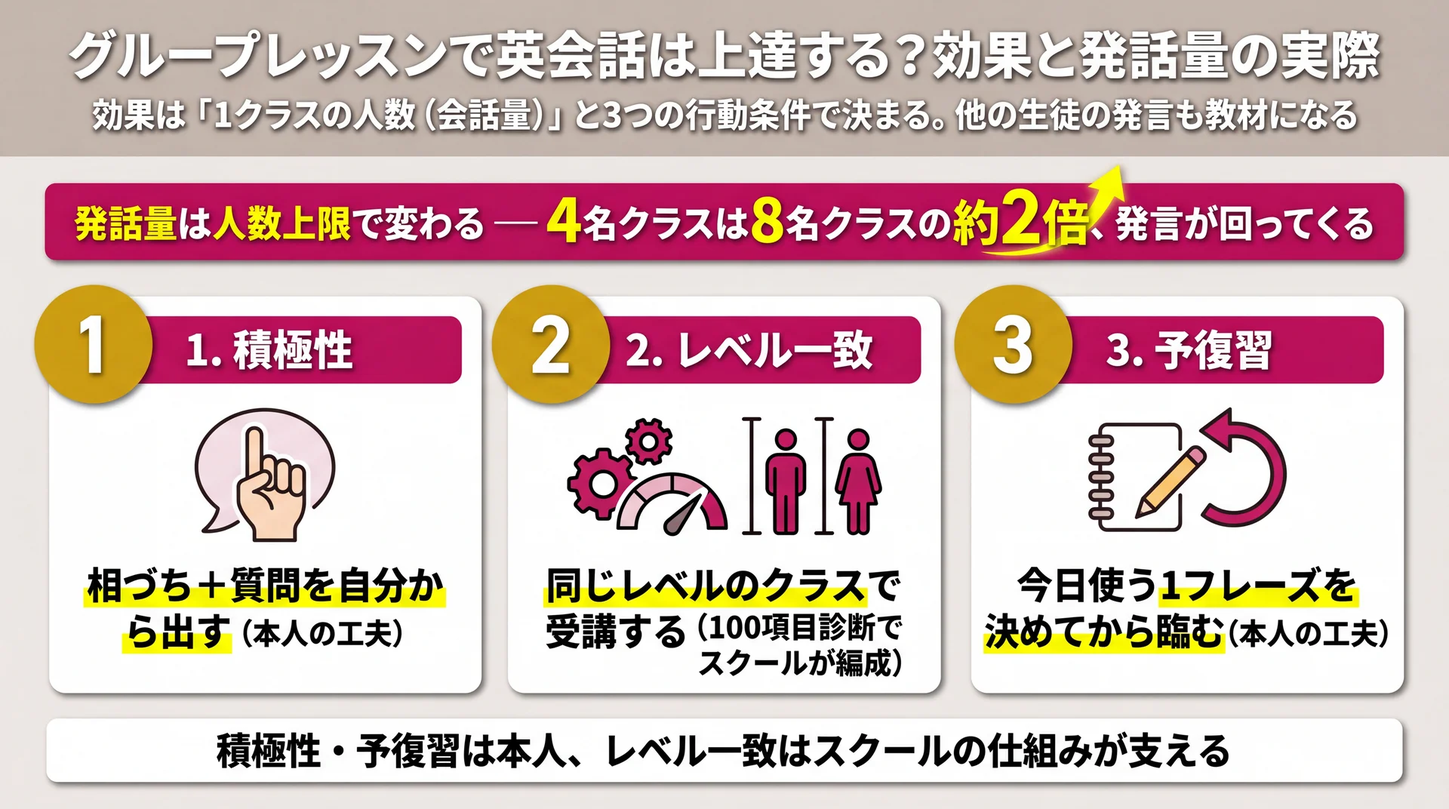
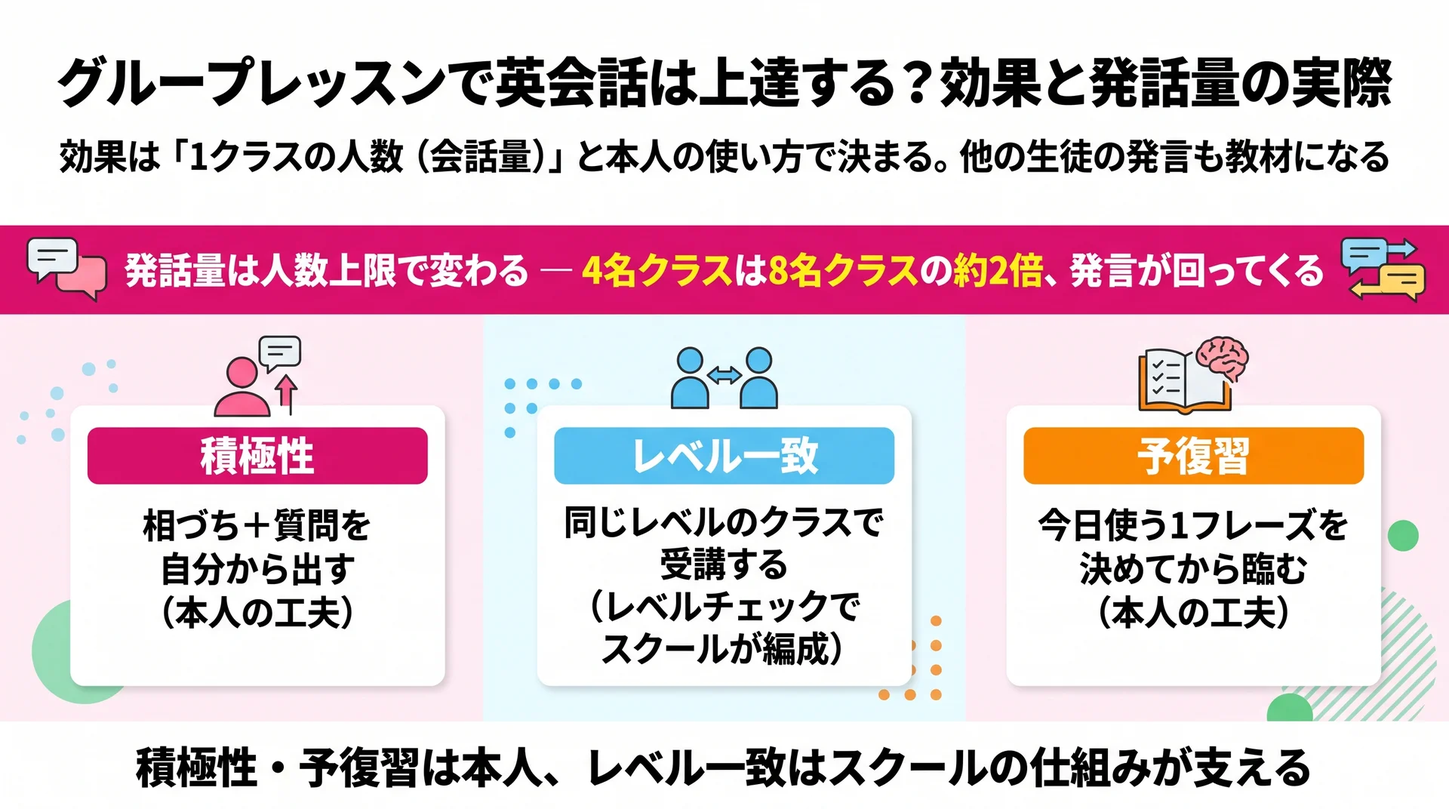
publish: eikaiwa-group-lesson

diff --git a/2026/07/eikaiwa-group-lesson.html b/2026/07/eikaiwa-group-lesson.html
@@ -19,6 +19,16 @@
 .wp-block-button{margin:0;}
 .wp-block-button__link{display:inline-block;padding:14px 32px;border-radius:999px;font-weight:700;line-height:1.2;text-decoration:none;}
 .wp-block-group .has-text-align-center{margin:10px 0;}
+/* Gutenberg image blocks: a WordPress theme centers .aligncenter figures; standalone
+   HTML lacks that rule so they render left-aligned. Inline styles on a figure
+   (e.g. style="text-align:left") still win over these rules.
+   max-width:100% keeps banner-CTA images (gutenberg-cta-template.md pattern: no width
+   attr / no inline style) inside the 820px article container.
+   Caption values (12px / #4D4D4D) follow the figcaption inline style already used in
+   published articles (NOVA etc., 2026-08). */
+.wp-block-image.aligncenter{text-align:center;margin-left:auto;margin-right:auto;}
+.wp-block-image.aligncenter img{display:inline-block;max-width:100%;height:auto;}
+.wp-block-image .wp-element-caption{font-size:12px;color:#4D4D4D;margin-top:6px;}
 /* WillGroup / carebase theme CTA (.btn-gra) for standalone HTML rendering.
    Some articles use the theme's <p class="btn-gra ..."><a>…</a></p> CTA instead of a
    Gutenberg button block. Without the theme CSS these classes are inert and the CTA
@@ -45,36 +55,28 @@
 .column-contact-block p{color:#fff;text-align:center;margin:24px 0;}
 .column-contact-block p:not(.btn-gra){font-size:20px;font-weight:700;line-height:1.5;}
 </style><h1 style="font-size:32px; font-weight:700; margin:24px 0 16px; padding-bottom:10px; border-bottom:1px solid #eaeef2; line-height:1.3;">グループレッスンで英会話は上達する？効果と料金・向き不向き</h1>
-<p style="margin:14px 0; line-height:1.7;"><img src="https://shun-toda.github.io/html-publish/2026/07/eikaiwa-group-lesson/cta_img_contents20_01_b.png" alt="NOVAうさぎ" loading="lazy" style="max-width:100%; height:auto; display:block; margin:16px auto; border-radius:6px;" /></p>
-<p style="margin:14px 0; line-height:1.7;">「グループレッスンで英会話は本当に上達するの？」――費用を抑えたい一方で、自分だけ発言できずに取り残されないか気になるところです。結論から言えば、上達するかどうかは<strong>1クラスの人数と使い方</strong>で大きく変わります。少人数で会話量を確保できれば、月1万円台から続けながら十分に力を伸ばせます。まずは<a href="/column/eikaiwa-school-osusume/" style="color:#0969da; text-decoration:none; border-bottom:1px solid #eaeef2;">英会話教室の選び方から料金相場までを整理したハブガイド</a>で全体像をつかむのもおすすめです。</p>
-<h2 style="font-size:24px; font-weight:600; margin:32px 0 16px; padding-bottom:8px; border-bottom:1px solid #eaeef2; line-height:1.3;">グループレッスンとは？1クラスの人数とレッスンの進み方</h2>
-<p style="margin:14px 0; line-height:1.7;"><img src="https://shun-toda.github.io/html-publish/2026/07/eikaiwa-group-lesson/h2_01_%E3%82%B0%E3%83%AB%E3%83%BC%E3%83%97%E3%83%AC%E3%83%83%E3%82%B9%E3%83%B3%E3%81%A8%E3%81%AF_%E4%BA%BA%E6%95%B0.webp" alt="1クラス2〜4名の少人数と6〜8名の多人数で発言機会が変わる点と、進め方・対面/オンラインの違いを整理した図" loading="lazy" style="max-width:100%; height:auto; display:block; margin:16px auto; border-radius:6px;" /><br><em>人数・進め方・対面/オンラインの3観点でグループレッスンの基本を整理（当社の少人数上限は最大4名）</em></p>
-<p style="margin:14px 0; line-height:1.7;">グループレッスンは、1人の講師が複数の生徒を同時に教える英会話の受講形式です。人数は少人数制で2〜4名程度から、多いところでは6〜8名程度まで幅があり、同じくらいの英語レベルの生徒でクラスを組むのが一般的です。費用を抑えながら仲間と学べる形式として、初心者から根強い人気があります。まずは形式の中身を押さえておきましょう。</p>
-<h3 style="font-size:20px; font-weight:600; margin:24px 0 12px; line-height:1.3;">1クラスの人数と少人数・大人数の違い</h3>
-<p style="margin:14px 0; line-height:1.7;">グループレッスンでいちばん効果を左右するのが、1クラスの人数です。人数が少ないほど1人あたりの発言機会は増え、多いほど聞いている時間が長くなります。当社の駅前留学NOVAでは、講師1人に対して<span style="color:red"><strong>最大4名まで</strong></span>の少人数に上限を設けています（<a href="https://www.nova.co.jp/novajiman/" style="color:#0969da; text-decoration:none; border-bottom:1px solid #eaeef2;">NOVAの自慢</a>）。人数の上限が明記されているかどうかは、体験や見学の際に確認しておきたいポイントです。</p>
-<p style="margin:14px 0; line-height:1.7;">同じ「グループレッスン」でも、2〜4名の少人数と6〜8名の中人数では、話せる量がまったく違ってきます。安さだけで選ぶと、席数の多いクラスで自分の番がなかなか回ってこないこともあります。料金と一緒に人数の上限をセットで見ておくと、こうしたミスマッチを防げます。人数は多くの場合、公式サイトの料金ページや各校の案内に記載されているので、申し込み前にチェックしておきましょう。</p>
-<h3 style="font-size:20px; font-weight:600; margin:24px 0 12px; line-height:1.3;">レッスンの進み方（ロールプレイやペアワーク）</h3>
-<p style="margin:14px 0; line-height:1.7;">グループレッスンは、講師が一方的に話す授業ではありません。ロールプレイ（役割を決めた会話練習）、ペアワーク、簡単なディスカッションなど、生徒同士でやり取りする時間が中心になります。講師は会話を回しながら、その場で発音や言い回しを直していきます。</p>
-<p style="margin:14px 0; line-height:1.7;">当社の駅前留学NOVAの講師は全員外国人なので、教材にない自然な表現や相づちも、実際のやり取りの中で拾えます。<strong>他の生徒の発言を聞きながら自分も話す</strong>という往復が、グループならではの学びの土台になります。同じテーマでも人によって言い方が違うため、1回のレッスンで複数の表現に触れられるのがグループの持ち味です。</p>
-<h3 style="font-size:20px; font-weight:600; margin:24px 0 12px; line-height:1.3;">対面とオンライン、2つのグループレッスン</h3>
-<p style="margin:14px 0; line-height:1.7;">グループレッスンには、教室に通う対面型と、自宅から受けるオンライン型があります。対面型は同じ空間で表情やジェスチャーも交えて練習でき、通うこと自体が学習リズムをつくります。オンライン型は移動時間ゼロで受けられる手軽さが魅力です。</p>
-<p style="margin:14px 0; line-height:1.7;">当社では、駅前の教室で受ける対面のグループに加えて、オンラインの新・お茶の間留学も用意しています。生活スタイルに合わせて対面とオンラインを切り替えられると、忙しい時期でも学習が途切れにくくなります。続けられるかどうかが不安な方ほど、通い方の選択肢が多い環境を選んでおくと安心です。</p>
-<h2 style="font-size:24px; font-weight:600; margin:32px 0 16px; padding-bottom:8px; border-bottom:1px solid #eaeef2; line-height:1.3;">グループレッスンで英会話は上達する？効果と発話量の実際</h2>
-<p style="margin:14px 0; line-height:1.7;"><img src="https://shun-toda.github.io/html-publish/2026/07/eikaiwa-group-lesson/h2_02_%E5%8A%B9%E6%9E%9C_%E7%99%BA%E8%A9%B1%E9%87%8F.webp" alt="伸びるかを分ける積極性・レベル一致・予復習の3条件と、本人とスクールの役割分担を示した図" loading="lazy" style="max-width:100%; height:auto; display:block; margin:16px auto; border-radius:6px;" /><br><em>積極性・予復習は本人、レベル一致は当社の100項目診断が支える役割分担（当社の受講サポートの知見に基づく）</em></p>
+<p style="margin:14px 0; line-height:1.7;"><img src="https://shun-toda.github.io/html-publish/2026/07/eikaiwa-group-lesson/01_%E3%82%B0%E3%83%AB%E3%83%BC%E3%83%97%E3%83%AC%E3%83%83%E3%82%B9%E3%83%B3.webp" alt="外国人講師と最大4名の少人数グループで英会話レッスンを受ける生徒たち" loading="lazy" style="max-width:100%; height:auto; display:block; margin:16px auto; border-radius:6px;" /></p>
+<p style="margin:14px 0; line-height:1.7;">「グループレッスンで英会話は本当に上達するの？」――費用を抑えたい一方で、自分だけ発言できずに取り残されないか気になるところです。結論から言えば、上達するかどうかは<strong>1クラスの人数と使い方</strong>で大きく変わります。少人数で会話量を確保できれば、月1万円台から続けながら十分に力を伸ばせます。</p>
+<h2 style="background:#D31477;color:#FFFFFF;padding:12px 16px;border-radius:8px">グループレッスンとは？1クラスの人数とレッスンの進み方</h2><p style="margin:14px 0; line-height:1.7;"><img src="https://shun-toda.github.io/html-publish/2026/07/eikaiwa-group-lesson/h2_01_%E3%82%B0%E3%83%AB%E3%83%BC%E3%83%97%E3%83%AC%E3%83%83%E3%82%B9%E3%83%B3%E3%81%A8%E3%81%AF_%E4%BA%BA%E6%95%B0.webp" alt="1クラス2〜4名の少人数と6〜8名の多人数で発言機会が変わる点と、進め方・対面/オンラインの違いを整理した図" loading="lazy" style="max-width:100%; height:auto; display:block; margin:16px auto; border-radius:6px;" /><br><em>人数・進め方・対面/オンラインの3つの観点でグループレッスンの基本を整理（NOVAの少人数上限は最大4名）</em></p>
+<p style="margin:14px 0; line-height:1.7;">グループレッスンは、1人の講師が複数の生徒を同時に教える英会話の受講形式です。人数は少人数制で2〜4名程度から、多いところでは6〜8名程度まで幅があり、同じくらいの英語レベルの生徒でクラスを組むのが一般的です。費用を抑えながら仲間と学べる形式として、初心者から根強い人気があります。</p>
+<h3 style="border-left:6px solid #E9AD16;background:#FBF2F6;padding:8px 12px;color:#242424">1クラスの人数と少人数・大人数の違い</h3><p style="margin:14px 0; line-height:1.7;">グループレッスンでいちばん効果を左右するのが、1クラスの人数です。人数が少ないほど1人あたりの発言機会は増え、多いほど聞いている時間が長くなります。NOVAは、講師1人に対して<span style="color:red"><strong>最大4名まで</strong></span>の少人数制です（<a href="https://www.nova.co.jp/novajiman/" style="color:#0969da; text-decoration:none; border-bottom:1px solid #eaeef2;">NOVAの自慢</a>）。</p>
+<p style="margin:14px 0; line-height:1.7;">同じ「グループレッスン」でも、2〜4名の少人数と6〜8名の中人数では、話せる量がまったく違ってきます。安さだけで選ぶと、席数の多いクラスで自分の番がなかなか回ってこないこともあります。料金と一緒に人数の上限をセットで見ておくと、こうしたミスマッチを防げます。</p>
+<h3 style="border-left:6px solid #E9AD16;background:#FBF2F6;padding:8px 12px;color:#242424">レッスンの進み方（ロールプレイやペアワーク）</h3><p style="margin:14px 0; line-height:1.7;">グループレッスンは、講師が一方的に話す授業ではありません。レッスンの中心は講師との会話で、ロールプレイ（役割を決めた会話練習）、ペアワーク、簡単なディスカッションなど、生徒同士でやり取りする時間もあります。講師は会話を回しながら、その場で発音や言い回しを直していきます。</p>
+<p style="margin:14px 0; line-height:1.7;">NOVAの講師は全員外国人なので、教材にない自然な表現や相づちも、実際のやり取りの中で拾えます。<strong>他の生徒の発言を聞きながら自分も話す</strong>という往復が、グループならではの学びの土台になります。同じテーマでも人によって言い方が違うため、1回のレッスンで複数の表現に触れられるのがグループの持ち味です。</p>
+<h3 style="border-left:6px solid #E9AD16;background:#FBF2F6;padding:8px 12px;color:#242424">対面とオンライン、2つのグループレッスン</h3><p style="margin:14px 0; line-height:1.7;">グループレッスンには、教室に通う対面型と、自宅から受けるオンライン型があります。対面型は同じ空間で表情やジェスチャーも交えて練習でき、通うこと自体が学習リズムをつくります。オンライン型は移動時間ゼロで受けられる手軽さが魅力です。</p>
+<p style="margin:14px 0; line-height:1.7;">NOVAは、駅前の教室で受ける対面のグループに加えて、オンラインの新・お茶の間留学も用意しています。生活スタイルに合わせて対面とオンラインを切り替えられると、忙しい時期でも学習が途切れにくくなります。</p>
+<h2 style="background:#D31477;color:#FFFFFF;padding:12px 16px;border-radius:8px">グループレッスンで英会話は上達する？効果と発話量の実際</h2><p style="margin:14px 0; line-height:1.7;"><img src="https://shun-toda.github.io/html-publish/2026/07/eikaiwa-group-lesson/h2_02_%E5%8A%B9%E6%9E%9C_%E7%99%BA%E8%A9%B1%E9%87%8F.webp" alt="伸びるかを左右する積極性・レベル一致・予復習のポイントと、本人とスクールの役割分担を示した図" loading="lazy" style="max-width:100%; height:auto; display:block; margin:16px auto; border-radius:6px;" /><br><em>積極性・予復習は本人、レベル一致はNOVAのレベルチェック（100項目の診断）が支える役割分担</em></p>
 <p style="margin:14px 0; line-height:1.7;">グループレッスンでも英会話は十分に上達します。効果を決めるのは人数の上限と本人の使い方の2つで、少人数で会話量を確保し、積極的に発言すれば、初心者でも着実に伸ばせます。逆に大人数で聞き役に徹してしまうと、伸びは緩やかになります。</p>
 <p style="margin:14px 0; line-height:1.7;">グループレッスンで最初に気になるのは発話量の問題です。ここは1クラスの人数の設計しだいで大きく変わる部分なので、まず効果が生まれる仕組みから確認します。</p>
-<h3 style="font-size:20px; font-weight:600; margin:24px 0 12px; line-height:1.3;">効果が出る仕組み――他の生徒の発言も教材になる</h3>
-<p style="margin:14px 0; line-height:1.7;">グループレッスンの効果の核心は、<span style="background:linear-gradient(transparent 60%,#FFFF00 60%)"><strong>自分が話す時間だけでなく、他の生徒の発言と講師の修正がまるごと教材になる</strong></span>ことです。同じ質問に別の人がどう答えるか、どこで間違えて講師にどう直されるかを聞くこと自体が、実践的なインプットになります。</p>
-<p style="margin:14px 0; line-height:1.7;">自分ひとりでは思いつかない言い回しに触れられるのも利点です。他の生徒が使った表現を「次は自分も使ってみよう」と真似することで、語彙とフレーズの引き出しが自然に増えていきます。マンツーマンでは自分の会話だけが素材ですが、グループでは人数分の言い回しに触れられます。当社の駅前留学NOVAの受講生からは「毎週先生が変わるため、色々な発音や表現の違いを得られます」という声もいただいています（40代女性・7年継続の受講者）。多様な話し方に触れられる環境は、耳を慣らすうえで効いてきます。そのため、発言していない時間も聞き流さずに参加する姿勢が、上達の分かれ目になります。</p>
-<h3 style="font-size:20px; font-weight:600; margin:24px 0 12px; line-height:1.3;">「発話量が少ない」は人数上限で変わる</h3>
-<p style="margin:14px 0; line-height:1.7;">グループレッスンの弱点としてよく挙がるのが発話量です。ただし、これは「グループだから少ない」のではなく、<span style="color:red"><strong>1クラスの人数が多いほど1人あたりの会話量が減る</strong></span>という単純な構造の問題です。8名のクラスと4名のクラスでは、同じ時間でも回ってくる回数が倍近く違います。</p>
-<p style="margin:14px 0; line-height:1.7;">たとえば最大4名のクラスなら、講師が一人ひとりに質問を振っても短時間で全員に回り、発言と修正のサイクルを何度も繰り返せます。当社はこの発話量こそグループ選びの要だと考え、駅前留学NOVAでは最大4名の少人数に上限を固定しています。さらに同じレベルの生徒同士でクラスを編成するので、話すテンポや語彙が近く、置いていかれる・退屈するといった偏りが起きにくくなります。料金の安さだけでなく「1クラス何名までか」を先に確認しておくと、発話量の不安は実質的に解消できます。</p>
-<h3 style="font-size:20px; font-weight:600; margin:24px 0 12px; line-height:1.3;">伸びる人・伸び悩む人を分ける3つの行動条件</h3>
-<p style="margin:14px 0; line-height:1.7;">同じグループレッスンでも、伸びる人と伸び悩む人ははっきり分かれます。当社が受講生の学び方を見てきた経験から、その差は次の3つの行動条件に集約されます。</p>
+<h3 style="border-left:6px solid #E9AD16;background:#FBF2F6;padding:8px 12px;color:#242424">効果が出る仕組み――他の生徒の発言も教材になる</h3><p style="margin:14px 0; line-height:1.7;">グループレッスンの効果の核心は、<span style="background:linear-gradient(transparent 60%,#FFFF00 60%)"><strong>自分が話す時間だけでなく、他の生徒の発言と講師の修正がまるごと教材になる</strong></span>ことです。同じ質問に別の人がどう答えるか、どこで間違えて講師にどう直されるかを聞くこと自体が、実践的なインプットになります。</p>
+<p style="margin:14px 0; line-height:1.7;">自分ひとりでは思いつかない言い回しに触れられるのも利点です。他の生徒が使った表現を「次は自分も使ってみよう」と真似することで、語彙とフレーズの引き出しが自然に増えていきます。マンツーマンでは自分の会話だけが素材ですが、グループでは人数分の言い回しに触れられます。NOVAの受講生からは「毎週先生が変わるため、色々な発音や表現の違いを得られます」という声もいただいています（40代女性・7年継続の受講者）。多様な話し方に触れられる環境は、耳を慣らすうえで効いてきます。そのため、発言していない時間も聞き流さずに参加する姿勢が、上達の分かれ目になります。</p>
+<h3 style="border-left:6px solid #E9AD16;background:#FBF2F6;padding:8px 12px;color:#242424">「発話量が少ない」は人数上限で変わる</h3><p style="margin:14px 0; line-height:1.7;">グループレッスンの弱点としてよく挙がるのが発話量です。ただし、これは「グループだから少ない」のではなく、<span style="color:red"><strong>1クラスの人数が多いほど1人あたりの会話量が減る</strong></span>という単純な構造の問題です。8名のクラスと4名のクラスでは、同じ時間でも回ってくる回数が倍近く違います。</p>
+<p style="margin:14px 0; line-height:1.7;">たとえば最大4名のクラスなら、講師が一人ひとりに質問を振っても短時間で全員に回り、発言と修正のサイクルを何度も繰り返せます。NOVAは、講師1人あたり最大4名の少人数に上限を設けています。さらに同じレベルの生徒同士でクラスを編成するので、話すテンポや語彙が近く、置いていかれる・退屈するといった偏りが起きにくくなります。料金の安さだけでなく「1クラス何名までか」を先に確認しておくと、発話量の不安は実質的に解消できます。</p>
+<h3 style="border-left:6px solid #E9AD16;background:#FBF2F6;padding:8px 12px;color:#242424">グループレッスンで伸びる人・伸び悩む人の特徴</h3><p style="margin:14px 0; line-height:1.7;">同じグループレッスンでも、伸びる人と伸び悩む人ははっきり分かれます。その差は、次のような行動の特徴に表れます。</p>
 <div style="overflow-x:auto; margin:18px 0;"><table style="border-collapse:collapse; width:100%; font-size:14px;">
 <thead style="background:#f6f8fa;">
 <tr>
-<th style="border:1px solid #d0d7de; padding:8px 12px; text-align:left; font-weight:600;">条件</th>
+<th style="border:1px solid #d0d7de; padding:8px 12px; text-align:left; font-weight:600;">項目</th>
 <th style="border:1px solid #d0d7de; padding:8px 12px; text-align:left; font-weight:600;">伸びる人</th>
 <th style="border:1px solid #d0d7de; padding:8px 12px; text-align:left; font-weight:600;">伸び悩む人</th>
 </tr>
@@ -95,23 +97,18 @@
 <td style="border:1px solid #d0d7de; padding:8px 12px;">準備も復習もしない</td>
 </tr>
 </tbody></table></div>
-<p style="margin:14px 0; line-height:1.7;"><em>グループレッスンで伸びる人・伸び悩む人の3条件（当社の受講サポートの知見に基づく）</em></p>
-<p style="margin:14px 0; line-height:1.7;">積極性といっても、流暢に話す必要はありません。「Me too.」や「Why?」といった短い相づちと質問を挟むだけでも、発言回数は大きく増えます。この3条件のうち、レベル一致は自分だけでは整えにくい部分です。当社の駅前留学NOVAでは<span style="background:linear-gradient(transparent 60%,#FFFF00 60%)"><strong>100項目診断で現在地を可視化し、レベル別にクラスを編成</strong></span>しています。積極性と予復習は本人の工夫、レベル一致はスクールの仕組みで支える――この役割分担ができていると、グループでも効果が安定します。</p>
-<h3 style="font-size:20px; font-weight:600; margin:24px 0 12px; line-height:1.3;">効果を実感するまでの目安と多言語への広げ方</h3>
-<p style="margin:14px 0; line-height:1.7;">効果がいつ実感できるかは、受講の頻度と積み重ねで変わります。週1回のペースでも、決めたフレーズを毎回使い、復習を重ねれば、数か月単位で「言いたいことが口から出る」場面が増えていきます。より早く手応えがほしいときは、週の受講回数を増やしたり、レッスンの合間に短時間の自宅学習を挟んだりすると、定着のスピードが上がります。焦らずに続けられる料金と通いやすさが、結果的に上達の近道になります。</p>
-<p style="margin:14px 0; line-height:1.7;">グループレッスンで英語に慣れてくると、同じ形式で第二・第三言語に広げる楽しみも生まれます。当社の渋谷校では「中国語のレッスンを受講しています。講師や同クラスの生徒さん方と常に中国語で会話をする環境がとても勉強に役立っています」という声もいただいています（30代男性・中国語学習者）。当社は英語以外にも複数言語のグループを同じ校舎で用意しているため、英語で身につけた学び方をそのまま横展開できます。長く学びたい方ほど、多言語に広げられる環境を選んでおくと学習の幅が広がります。</p>
-<p style="margin:14px 0; line-height:1.7;"><strong>要点:</strong> グループレッスンの効果は「人数の上限（会話量）」と「積極性・レベル一致・予復習の3条件」で決まります。少人数のクラスを選び、聞いている時間も参加する意識を持てば、初心者でも着実に伸ばせます。</p>
-<h2 style="font-size:24px; font-weight:600; margin:32px 0 16px; padding-bottom:8px; border-bottom:1px solid #eaeef2; line-height:1.3;">グループレッスンの料金相場はいくら？</h2>
-<p style="margin:14px 0; line-height:1.7;"><img src="https://shun-toda.github.io/html-publish/2026/07/eikaiwa-group-lesson/h2_03_%E6%96%99%E9%87%91%E7%9B%B8%E5%A0%B4.webp" alt="グループ月謝税込11,000円〜がマンツーマン24,200円〜の半額以下であることを示す料金比較チャート" loading="lazy" style="max-width:100%; height:auto; display:block; margin:16px auto; border-radius:6px;" /><br><em>月謝で比べるとグループはマンツーマンの半額以下（当社の公式料金・税込／2026年7月時点に基づく）</em></p>
-<p style="margin:14px 0; line-height:1.7;">グループレッスンはマンツーマンより割安で、続けやすいのが料金面の特徴です。対面スクールでは各社の公式料金で確認できる範囲で月1万円台〜2万円台が中心となり、当社の駅前留学NOVAはグループの月謝10,000円〜（税込11,000円〜）から始められます（<a href="https://www.nova.co.jp/price/" style="color:#0969da; text-decoration:none; border-bottom:1px solid #eaeef2;">NOVA料金</a>）。ただし月謝以外の費用も合わせて見ることが大切です。</p>
-<h3 style="font-size:20px; font-weight:600; margin:24px 0 12px; line-height:1.3;">1レッスン・月謝の相場観</h3>
-<p style="margin:14px 0; line-height:1.7;">グループレッスンの費用は、月謝制と回数制で見え方が変わります。1レッスンあたりで見ると、対面スクールでは3,000〜5,000円台が目安になりますが、月謝制なら月あたりの金額で管理でき、通うほど1回あたりの単価は下がっていきます。回数制は都合に合わせて通える一方、まとめ買いの前払いが必要なこともあるため、続けられるか不安な段階では月謝制のほうが始めやすい面があります。</p>
-<p style="margin:14px 0; line-height:1.7;">当社の駅前留学NOVAは<span style="color:red"><strong>月10,000円（税込11,000円）からの月謝制</strong></span>をメインにしています。高額な一括前払いが不要なので、独学や格安オンラインで続かなかった方でも、金銭的なリスクを抑えて再スタートできます。英会話は数か月から年単位で続けることで力がつくため、月々の負担が軽いほど途中でやめずに済みます。総額の大きさより「毎月いくらで、無理なく続けられるか」で比較すると、判断を誤りにくくなります。</p>
-<h3 style="font-size:20px; font-weight:600; margin:24px 0 12px; line-height:1.3;">入会金・教材費などの追加費用</h3>
-<p style="margin:14px 0; line-height:1.7;">月謝だけを見て決めると、後から入会金・教材費・システム利用料などが上乗せされ、初月の負担が想定より大きくなることがあります。料金を比べるときは、<span style="color:red"><strong>月謝＋初期費用＋教材費の合計</strong></span>で見るのが鉄則です。</p>
-<p style="margin:14px 0; line-height:1.7;">料金の内訳や割引の条件はスクールごとに幅があるため、無料体験のときに「初月に必要な総額」を具体的に聞いておくと安心です。当社では月謝制を軸に、税込表記で提示しているので、通い始める前に総額の見通しを立てられます。教材費や地域による差異が生じる場合もあるため、その点も体験時にあわせて確認しておきましょう。</p>
-<h3 style="font-size:20px; font-weight:600; margin:24px 0 12px; line-height:1.3;">料金あたりの発話確保量で比べる</h3>
-<p style="margin:14px 0; line-height:1.7;">料金は絶対額だけでなく「その金額でどれだけ話せるか」で見ると、グループとマンツーマンの違いがはっきりします。当社の公式料金をもとに、費用と会話量の関係を独自の比較軸で整理しました。</p>
+<p style="margin:14px 0; line-height:1.7;"><em>グループレッスンで伸びる人・伸び悩む人の特徴</em></p>
+<p style="margin:14px 0; line-height:1.7;">積極性といっても、流暢に話す必要はありません。「Me too.」や「Why?」といった短い相づちと質問を挟むだけでも、発言回数は大きく増えます。このうちレベル一致は、自分だけでは整えにくい部分です。NOVAは<span style="background:linear-gradient(transparent 60%,#FFFF00 60%)"><strong>レベルチェック（100項目の診断）で現在地を可視化し、レベル別にクラスを編成</strong></span>しています。積極性と予復習は本人の工夫、レベル一致はスクールの仕組みで支える――この役割分担ができていると、グループでも効果が安定します。</p>
+<h3 style="border-left:6px solid #E9AD16;background:#FBF2F6;padding:8px 12px;color:#242424">効果を実感するまでの目安と多言語への広げ方</h3><p style="margin:14px 0; line-height:1.7;">効果がいつ実感できるかは、受講の頻度と積み重ねで変わります。週1回のペースでも、決めたフレーズを毎回使い、復習を重ねれば、数か月単位で「言いたいことが口から出る」場面が増えていきます。より早く手応えがほしいときは、週の受講回数を増やしたり、レッスンの合間に短時間の自宅学習を挟んだりすると、定着のスピードが上がります。焦らずに続けられる料金と通いやすさが、結果的に上達の近道になります。</p>
+<p style="margin:14px 0; line-height:1.7;">グループレッスンで英語に慣れてくると、同じ形式で第二・第三言語に広げる楽しみも生まれます。NOVAの渋谷校では「中国語のレッスンを受講しています。講師や同クラスの生徒さん方と常に中国語で会話をする環境がとても勉強に役立っています」という声もいただいています（30代男性・中国語学習者）。NOVAは英語以外にも複数言語のグループを同じ校舎で用意しているため、英語で身につけた学び方をそのまま横展開できます。</p>
+<p style="margin:14px 0; line-height:1.7;"><strong>要点:</strong> グループレッスンの効果は「人数の上限（会話量）」と「積極性・レベル一致・予復習」で決まります。少人数のクラスを選び、聞いている時間も参加する意識を持てば、初心者でも着実に伸ばせます。</p>
+<h2 style="background:#D31477;color:#FFFFFF;padding:12px 16px;border-radius:8px">グループレッスンの料金相場はいくら？</h2><p style="margin:14px 0; line-height:1.7;"><img src="https://shun-toda.github.io/html-publish/2026/07/eikaiwa-group-lesson/h2_03_%E6%96%99%E9%87%91%E7%9B%B8%E5%A0%B4.webp" alt="グループ月謝税込11,000円〜がマンツーマン24,200円〜の半額以下であることを示す料金比較チャート" loading="lazy" style="max-width:100%; height:auto; display:block; margin:16px auto; border-radius:6px;" /><br><em>月謝で比べるとグループはマンツーマンの半額以下（NOVAの公式料金・税込／2026年7月時点）</em></p>
+<p style="margin:14px 0; line-height:1.7;">グループレッスンはマンツーマンより割安で、続けやすいのが料金面の特徴です。対面スクールでは各社の公式料金で確認できる範囲で月1万円台〜2万円台が中心となり、NOVAはグループの月謝10,000円〜（税込11,000円〜）から始められます（<a href="https://www.nova.co.jp/price/" style="color:#0969da; text-decoration:none; border-bottom:1px solid #eaeef2;">NOVA料金</a>）。ただし月謝以外の費用も合わせて見ることが大切です。</p>
+<h3 style="border-left:6px solid #E9AD16;background:#FBF2F6;padding:8px 12px;color:#242424">1レッスン・月謝の相場観</h3><p style="margin:14px 0; line-height:1.7;">グループレッスンの費用は、月謝制と回数制で見え方が変わります。1レッスンあたりで見ると、対面スクールでは3,000〜5,000円台が目安になりますが、月謝制なら月あたりの金額で管理でき、通うほど1回あたりの単価は下がっていきます。回数制は都合に合わせて通える一方、まとめ買いの前払いが必要なこともあるため、続けられるか不安な段階では月謝制のほうが始めやすい面があります。</p>
+<p style="margin:14px 0; line-height:1.7;">NOVAは<span style="color:red"><strong>月10,000円（税込11,000円）からの月謝制</strong></span>がメインです。高額な一括前払いが不要なので、独学や格安オンラインで続かなかった方でも、金銭的なリスクを抑えて再スタートできます。英会話は数か月から年単位で続けることで力がつくため、月々の負担が軽いほど途中でやめずに済みます。総額の大きさより「毎月いくらで、無理なく続けられるか」で比較すると、判断を誤りにくくなります。</p>
+<h3 style="border-left:6px solid #E9AD16;background:#FBF2F6;padding:8px 12px;color:#242424">入会金・教材費などの追加費用</h3><p style="margin:14px 0; line-height:1.7;">月謝だけを見て決めると、後から入会金・教材費・システム利用料などが上乗せされ、初月の負担が想定より大きくなることがあります。料金を比べるときは、<span style="color:red"><strong>月謝＋初期費用＋教材費の合計</strong></span>で見るのが鉄則です。</p>
+<p style="margin:14px 0; line-height:1.7;">料金の内訳や割引の条件はスクールごとに幅があります。NOVAは月謝制を軸に、税込表記で提示しているので、通い始める前に総額の見通しを立てられます。教材費や地域による差異が生じる場合は、無料体験の際に確認できます。</p>
+<h3 style="border-left:6px solid #E9AD16;background:#FBF2F6;padding:8px 12px;color:#242424">料金あたりの発話確保量で比べる</h3><p style="margin:14px 0; line-height:1.7;">料金は絶対額だけでなく「その金額でどれだけ話せるか」で見ると、グループとマンツーマンの違いがはっきりします。NOVAの公式料金をもとに、費用と会話量の関係を整理しました。</p>
 <div style="overflow-x:auto; margin:18px 0;"><table style="border-collapse:collapse; width:100%; font-size:14px;">
 <thead style="background:#f6f8fa;">
 <tr>
@@ -141,54 +138,43 @@
 <td style="border:1px solid #d0d7de; padding:8px 12px;">短期集中・弱点をピンポイント</td>
 </tr>
 </tbody></table></div>
-<p style="margin:14px 0; line-height:1.7;"><em>月謝あたりの発話確保量で見たグループ／マンツーマンの比較（当社の公式料金と最大4名の少人数運用に基づく／税込・2026年7月時点）</em></p>
-<p style="margin:14px 0; line-height:1.7;">マンツーマンは会話量が最大になる分、月謝は税込24,200円〜とグループの2倍以上です。当社はこの差を「会話量の多さ」と「続けやすさ」のトレードオフだと捉えています。まずは費用を抑えて習慣化したい方はグループ、弱点を短期で潰したい方はマンツーマンと、目的で選ぶのが合理的です。グループとマンツーマンの詳しい違いや教室全体の選び方は、教室選び全体を整理したハブガイドでも扱っています。</p>
+<p style="margin:14px 0; line-height:1.7;"><em>月謝あたりの発話確保量で見たグループ／マンツーマンの比較（NOVAの公式料金・税込／2026年7月時点）</em></p>
+<p style="margin:14px 0; line-height:1.7;">マンツーマンは会話量が最大になる分、月謝は税込24,200円〜とグループの2倍以上です。この差は「会話量の多さ」と「続けやすさ」の違いです。まずは費用を抑えて習慣化したい方はグループ、弱点を短期で潰したい方はマンツーマンという選び分けが基本です。</p>
 <p style="margin:14px 0; line-height:1.7;"><strong>要点:</strong> 料金は総額と「その金額で話せる量」の両面で見ます。グループは月謝税込11,000円〜で続けやすく、会話量を最大化したいならマンツーマンという選び分けが基本です。</p>
-<h2 style="font-size:24px; font-weight:600; margin:32px 0 16px; padding-bottom:8px; border-bottom:1px solid #eaeef2; line-height:1.3;">グループレッスンが向いている人・向いていない人</h2>
-<p style="margin:14px 0; line-height:1.7;"><img src="https://shun-toda.github.io/html-publish/2026/07/eikaiwa-group-lesson/h2_04_%E5%90%91%E3%81%8D%E4%B8%8D%E5%90%91%E3%81%8D.webp" alt="グループが向く4タイプとマンツーマンが向く3タイプ、迷う場合は併用という選び分けを整理した図" loading="lazy" style="max-width:100%; height:auto; display:block; margin:16px auto; border-radius:6px;" /><br><em>目的別の向き不向きと「迷うなら併用」の選び分けを整理（当社の受講プラン設計に基づく）</em></p>
+<h2 style="background:#D31477;color:#FFFFFF;padding:12px 16px;border-radius:8px">グループレッスンが向いている人・向いていない人</h2><p style="margin:14px 0; line-height:1.7;"><img src="https://shun-toda.github.io/html-publish/2026/07/eikaiwa-group-lesson/h2_04_%E5%90%91%E3%81%8D%E4%B8%8D%E5%90%91%E3%81%8D.webp" alt="グループが向く4タイプとマンツーマンが向く3タイプ、迷う場合は併用という選び分けを整理した図" loading="lazy" style="max-width:100%; height:auto; display:block; margin:16px auto; border-radius:6px;" /><br><em>目的別の向き不向きと「迷うなら併用」の選び分けを整理</em></p>
 <p style="margin:14px 0; line-height:1.7;">グループレッスンは、費用を抑えて長く続けたい人や、仲間と一緒に学びたい人に向いています。一方で、自分のペースで弱点だけを集中的に直したい人や、短期で結果を出したい人はマンツーマンのほうが合います。自分の目的と性格に照らして選ぶのが失敗しないコツです。</p>
-<h3 style="font-size:20px; font-weight:600; margin:24px 0 12px; line-height:1.3;">グループレッスンが向いている人</h3>
-<p style="margin:14px 0; line-height:1.7;">英語学習に「続けやすさ」と「実践量」を求める方には、グループレッスンがよく合います。次のようなタイプが代表例です。</p>
+<h3 style="border-left:6px solid #E9AD16;background:#FBF2F6;padding:8px 12px;color:#242424">グループレッスンが向いている人</h3><p style="margin:14px 0; line-height:1.7;">英語学習に「続けやすさ」と「実践量」を求める方には、グループレッスンがよく合います。次のようなタイプが代表例です。</p>
 <ul style="margin:14px 0; padding-left:1.6em; line-height:1.7;">
 <li style="margin:4px 0;"><strong>費用を抑えつつ、無理なく長期で続けたい人</strong>：月謝制で始めやすく、通うほど1回あたりの単価も下がります。</li>
 <li style="margin:4px 0;"><strong>他の生徒の発言やミスからも学びたい人</strong>：人数分の言い回しに触れられ、インプット量が増えます。</li>
 <li style="margin:4px 0;"><strong>仲間がいるとモチベーションが保てる人</strong>：一緒に頑張る存在が継続の支えになります。</li>
 <li style="margin:4px 0;"><strong>日常会話やコミュニケーション力を幅広く伸ばしたい人</strong>：やり取り中心のレッスンで実践力が身につきます。</li>
 </ul>
-<p style="margin:14px 0; line-height:1.7;">当社の駅前留学NOVAでは、同じレベルの生徒同士で編成するので、初心者でも「自分だけついていけない」状態になりにくく、切磋琢磨しながら進められます。一人だと続かないタイプの人ほど、グループの環境が継続の助けになります。</p>
-<h3 style="font-size:20px; font-weight:600; margin:24px 0 12px; line-height:1.3;">グループレッスンが向いていない人（マンツーマンが合う人）</h3>
-<p style="margin:14px 0; line-height:1.7;">反対に、次のような方はマンツーマンのほうが目的に合いやすいです。</p>
+<p style="margin:14px 0; line-height:1.7;">NOVAは、同じレベルの生徒同士で編成するので、初心者でも「自分だけついていけない」状態になりにくく、切磋琢磨しながら進められます。一人だと続かないタイプの人ほど、グループの環境が継続の助けになります。</p>
+<h3 style="border-left:6px solid #E9AD16;background:#FBF2F6;padding:8px 12px;color:#242424">グループレッスンが向いていない人（マンツーマンが合う人）</h3><p style="margin:14px 0; line-height:1.7;">反対に、次のような方はマンツーマンのほうが目的に合いやすいです。</p>
 <ul style="margin:14px 0; padding-left:1.6em; line-height:1.7;">
 <li style="margin:4px 0;"><strong>商談やプレゼンなど、特定の場面の英語を短期で仕上げたい人</strong>：会話量を独り占めできる分、仕上がりが速くなります。</li>
 <li style="margin:4px 0;"><strong>自分の弱点だけをピンポイントで直したい人</strong>：カリキュラムを自分専用に組めます。</li>
 <li style="margin:4px 0;"><strong>周囲のペースに合わせず、完全に自分の速度で進めたい人</strong>：中断や質問も気兼ねなくできます。</li>
 </ul>
 <p style="margin:14px 0; line-height:1.7;">こうしたニーズでは、会話量を独り占めできるマンツーマンが効率的です。ただし「向いていないからグループはダメ」ということではありません。目的の一部だけをマンツーマンで補う使い方もできます。</p>
-<h3 style="font-size:20px; font-weight:600; margin:24px 0 12px; line-height:1.3;">迷うならグループとマンツーマンの併用</h3>
-<p style="margin:14px 0; line-height:1.7;">「どちらが自分に合うか決めきれない」というときは、二択で悩まずに<span style="background:linear-gradient(transparent 60%,#FFFF00 60%)"><strong>両方を組み合わせる</strong></span>のが現実的な答えです。当社の駅前留学NOVAは、グループとマンツーマン、定期受講の固定プランと自由予約のフリープランを組み合わせられる設計にしています。</p>
-<p style="margin:14px 0; line-height:1.7;">たとえば、普段はグループで会話量と仲間を確保しながら継続し、試験や出張の前だけマンツーマンで弱点を集中補強する、といった通い方ができます。当社が二択でなく併用を用意しているのは、学習の目的が時期によって変わるからです。いま決めきれなくても「まず続けやすいグループから始め、必要に応じて足す」と考えれば、選択のハードルは下がります。</p>
-<h2 style="font-size:24px; font-weight:600; margin:32px 0 16px; padding-bottom:8px; border-bottom:1px solid #eaeef2; line-height:1.3;">よくある質問</h2>
-<h3 style="font-size:20px; font-weight:600; margin:24px 0 12px; line-height:1.3;">グループレッスンの平均人数は何人ですか？</h3>
-<p style="margin:14px 0; line-height:1.7;">スクールによりますが、少人数制では2〜4名、多いところで6〜8名程度が目安です。人数が少ないほど1人あたりの会話量は増えます。当社の駅前留学NOVAは講師1人に対して最大4名までの少人数に上限を固定しています。</p>
-<h3 style="font-size:20px; font-weight:600; margin:24px 0 12px; line-height:1.3;">周りが気になって集中できないのでは？</h3>
-<p style="margin:14px 0; line-height:1.7;">同じくらいの英語レベルの生徒でクラスを組めば、発言のテンポや語彙が近く、気後れしにくくなります。当社は100項目診断でレベルを揃えて編成しているため、初心者でも「自分だけ浮く」状態になりにくい設計です。最初は聞き役から入り、相づちや短い質問で少しずつ参加を増やすと、自然に慣れていきます。</p>
-<h3 style="font-size:20px; font-weight:600; margin:24px 0 12px; line-height:1.3;">グループとマンツーマンは併用できますか？</h3>
-<p style="margin:14px 0; line-height:1.7;">はい、併用できます。当社の駅前留学NOVAでは、グループとマンツーマン、固定プランとフリープランを組み合わせて受講できます。普段はグループで続けつつ、必要な時期だけマンツーマンで弱点を補強する使い方が可能です。</p>
-<h2 style="font-size:24px; font-weight:600; margin:32px 0 16px; padding-bottom:8px; border-bottom:1px solid #eaeef2; line-height:1.3;">まとめ</h2>
-<p style="margin:14px 0; line-height:1.7;">グループレッスンで英会話が上達するかどうかは、1クラスの人数と使い方で決まります。少人数で会話量を確保し、相づちと質問・レベル一致・予復習の3条件を意識すれば、月1万円台から続けながら着実に力を伸ばせます。当社の駅前留学NOVAは最大4名の少人数とレベル別編成、グループとマンツーマンの併用で、この効果が出やすい環境を整えています。まずは自分の目的に合う通い方を、無料体験で確かめてみてください。教室選び全体を見比べたい方は<a href="/column/eikaiwa-school-osusume/" style="color:#0969da; text-decoration:none; border-bottom:1px solid #eaeef2;">英会話教室選びの全体像を確認する</a>とスムーズです。</p>
-<!-- wp:image {"align":"center","linkDestination":"custom"} -->
-<figure class="wp-block-image aligncenter"><a href="https://jm-neo.com/StudentSupport/html/trial.html?id=00000000" target="_blank" rel="noopener noreferrer"><img src="https://shun-toda.github.io/html-publish/2026/07/eikaiwa-group-lesson/cta_nls_bnr2311.jpg" alt="ネイティブ講師の生レッスンで会話量を確保する無料体験の案内バナー" loading="lazy" style="max-width:100%; height:auto; display:block; margin:16px auto; border-radius:6px;" /></a></figure>
-<!-- /wp:image --><!-- wp:group {"style":{"border":{"radius":"16px","style":"solid","width":"1px"},"spacing":{"padding":{"top":"24px","right":"20px","bottom":"24px","left":"20px"}}},"layout":{"type":"constrained"}} -->
+<h3 style="border-left:6px solid #E9AD16;background:#FBF2F6;padding:8px 12px;color:#242424">迷うならグループとマンツーマンの併用</h3><p style="margin:14px 0; line-height:1.7;">「どちらが自分に合うか決めきれない」というときは、二択で悩まずに<span style="background:linear-gradient(transparent 60%,#FFFF00 60%)"><strong>両方を組み合わせる</strong></span>のが現実的な答えです。NOVAは、グループとマンツーマン、定期受講の固定プランと自由予約のフリープランを組み合わせて受講できます。</p>
+<p style="margin:14px 0; line-height:1.7;">たとえば、普段はグループで会話量と仲間を確保しながら継続し、試験や出張の前だけマンツーマンで弱点を集中補強する、といった通い方ができます。学習の目的は時期によって変わるため、NOVAは二択でなく併用できる仕組みを用意しています。いま決めきれなくても「まず続けやすいグループから始め、必要に応じて足す」と考えれば、選択のハードルは下がります。</p>
+<h2 style="background:#D31477;color:#FFFFFF;padding:12px 16px;border-radius:8px">よくある質問</h2><h3 style="border-left:6px solid #E9AD16;background:#FBF2F6;padding:8px 12px;color:#242424">グループレッスンの平均人数は何人ですか？</h3><p style="margin:14px 0; line-height:1.7;">スクールによりますが、少人数制では2〜4名、多いところで6〜8名程度が目安です。人数が少ないほど1人あたりの会話量は増えます。NOVAは講師1人に対して最大4名までの少人数制です。</p>
+<h3 style="border-left:6px solid #E9AD16;background:#FBF2F6;padding:8px 12px;color:#242424">周りが気になって集中できないのでは？</h3><p style="margin:14px 0; line-height:1.7;">同じくらいの英語レベルの生徒でクラスを組めば、発言のテンポや語彙が近く、気後れしにくくなります。NOVAはレベルチェック（100項目の診断）でレベルを揃えて編成しているため、初心者でも「自分だけ浮く」状態になりにくい設計です。最初は聞き役から入り、相づちや短い質問で少しずつ参加を増やすと、自然に慣れていきます。</p>
+<h3 style="border-left:6px solid #E9AD16;background:#FBF2F6;padding:8px 12px;color:#242424">グループとマンツーマンは併用できますか？</h3><p style="margin:14px 0; line-height:1.7;">はい、併用できます。NOVAでは、グループとマンツーマン、固定プランとフリープランを組み合わせて受講できます。普段はグループで続けつつ、必要な時期だけマンツーマンで弱点を補強する使い方が可能です。</p>
+<h2 style="background:#D31477;color:#FFFFFF;padding:12px 16px;border-radius:8px">まとめ</h2><p style="margin:14px 0; line-height:1.7;">グループレッスンで英会話が上達するかどうかは、1クラスの人数と使い方で決まります。少人数で会話量を確保し、相づちと質問・レベル一致・予復習を意識すれば、月1万円台から続けながら着実に力を伸ばせます。NOVAは最大4名の少人数とレベル別編成、グループとマンツーマンの併用で、この効果が出やすい環境を整えています。まずは自分の目的に合う通い方を、無料体験で確かめてみてください。</p>
+<!-- wp:group {"style":{"border":{"radius":"16px","style":"solid","width":"1px"},"spacing":{"padding":{"top":"24px","right":"20px","bottom":"24px","left":"20px"}}},"layout":{"type":"constrained"}} -->
 <div class="wp-block-group has-border-color" style="border-style:solid;border-width:1px;border-radius:16px;padding-top:24px;padding-right:20px;padding-bottom:24px;padding-left:20px">
 <!-- wp:paragraph {"align":"center","style":{"typography":{"fontWeight":"700"}}} -->
-<p class="has-text-align-center" style="font-weight:700">＼ 少人数グループを60分の無料体験で ／</p>
+<p class="has-text-align-center" style="font-weight:700">＼ まずは無料体験レッスンから ／</p>
 <!-- /wp:paragraph -->
 <!-- wp:paragraph {"align":"center"} -->
-<p class="has-text-align-center">最大4名の少人数レッスンとレベル診断で、自分に合う会話量を確かめられます。</p>
+<p class="has-text-align-center">レベルチェックつきの無料体験で、自分に合うプランを確かめられます。</p>
 <!-- /wp:paragraph -->
 <!-- wp:buttons {"layout":{"type":"flex","justifyContent":"center"}} -->
 <div class="wp-block-buttons is-content-justification-center is-layout-flex wp-container-content-justification-center wp-block-buttons-is-layout-flex"><!-- wp:button {"style":{"border":{"radius":"999px"},"color":{"background":"#E9AD16","text":"#ffffff"}}} -->
-<div class="wp-block-button"><a class="wp-block-button__link has-text-color has-background wp-element-button" style="border-radius:999px;color:#ffffff;background-color:#E9AD16" href="https://jm-neo.com/StudentSupport/html/trial.html?id=00000000">グループレッスンを無料で試す</a></div>
+<div class="wp-block-button"><a class="wp-block-button__link has-text-color has-background wp-element-button" style="border-radius:999px;color:#ffffff;background-color:#E9AD16" href="https://jm-neo.com/StudentSupport/html/trial.html?id=00000000">無料体験レッスンを試す</a></div>
 <!-- /wp:button -->
 <!-- wp:button {"style":{"border":{"radius":"999px"},"color":{"background":"#D31477","text":"#ffffff"}}} -->
 <div class="wp-block-button"><a class="wp-block-button__link has-text-color has-background wp-element-button" style="border-radius:999px;color:#ffffff;background-color:#D31477" href="https://jm-neo.com/StudentSupport/html/request.html?id=00000000">資料請求はこちら</a></div>
